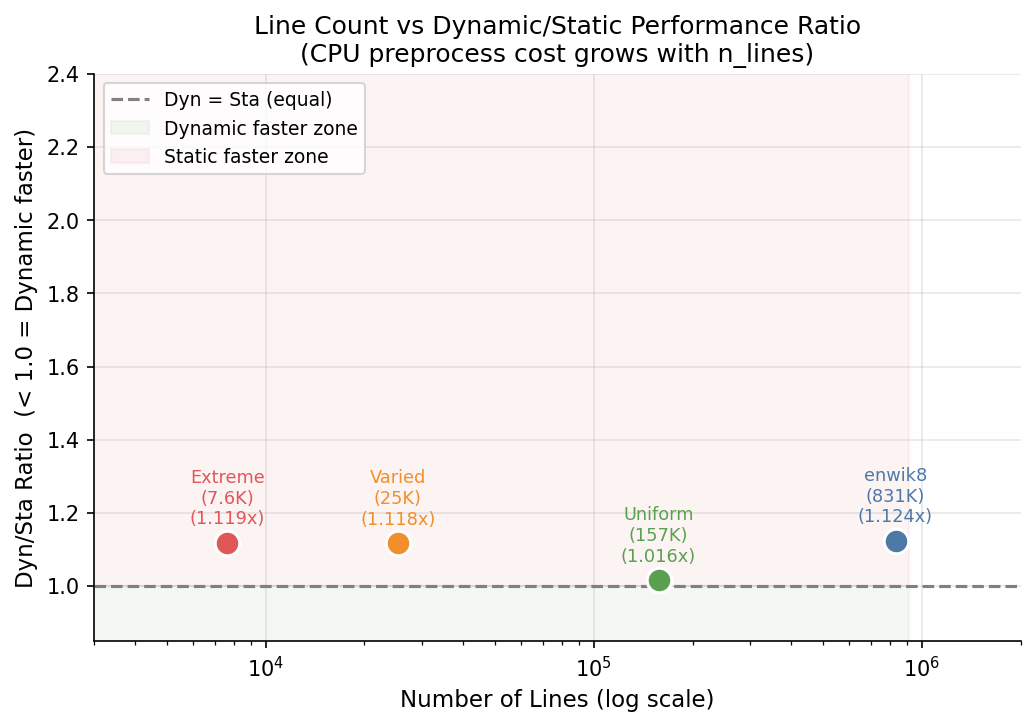
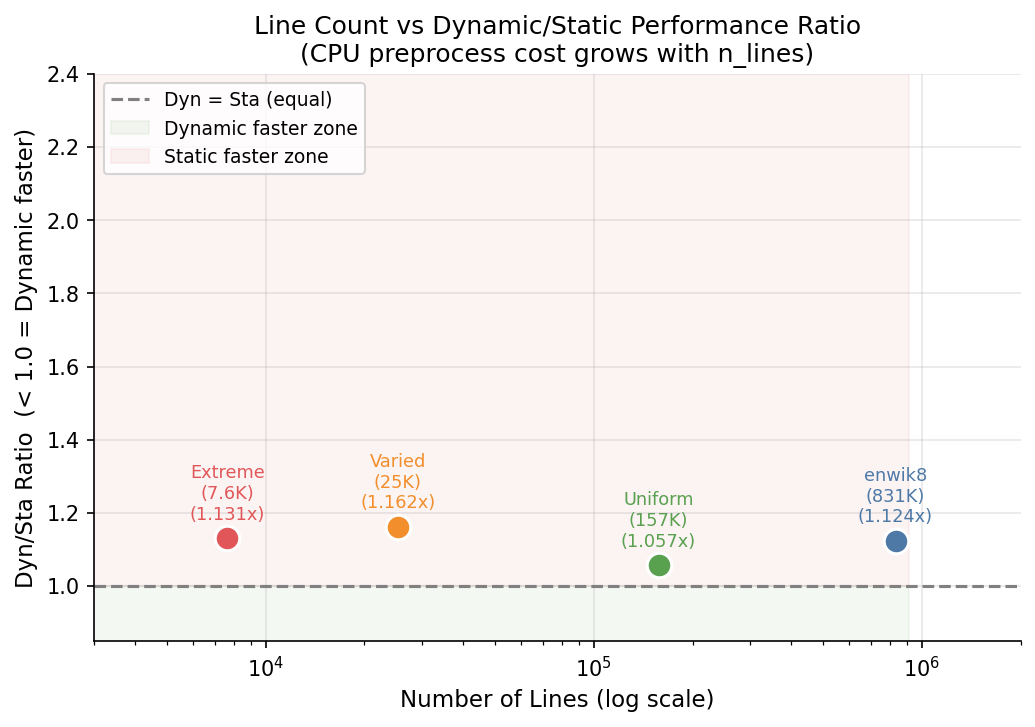
sprint(001): 再実験（3回平均）で結果を修正・グラフ更新
再実験データ（run_all.sh --runs 3）による正確な値:
  - enwik8 (831K行): Static=63.5ms, Dynamic=71.4ms, Dyn/Sta=1.124x
  - Uniform (157K行): Static=11.1ms, Dynamic=11.7ms, Dyn/Sta=1.057x
  - Varied  (25K行):  Static=14.3ms, Dynamic=16.6ms, Dyn/Sta=1.162x
  - Extreme  (7.6K行): Static=16.6ms, Dynamic=18.8ms, Dyn/Sta=1.131x

結論: Dynamic はすべての条件で Static 以下。
仮説「行長ばらつき大 → Dynamic 有利」は確認できなかった。
理由: 短行/長行が均等分散していると Static でも各チャンクが自然に均等化されるため。

Dynamic が有意になる条件: 短行ブロックと長行ブロックが連続して存在する場合。

Changed region(s): [[0.5874, 0.6657, 0.6802, 0.8171], [0.3401, 0.6052, 0.4329, 0.7565], [0.1855, 0.6355, 0.2783, 0.7565]]

diff --git a/sprints/001/plot_results.py b/sprints/001/plot_results.py
@@ -44,10 +44,10 @@ def get_stats(base, method, max_only=True):
 # ─── Datasets ──────────────────────────────────────────────────
 # enwik8 results (avg.csv, 3 runs) are the reference for large scale
 DATASETS = [
-    ("enwik8\n(831K lines)",  "results/latest",              407.0),
-    ("Uniform\n(157K lines)", "results/sprint001_uniform",   8.6  ),
-    ("Varied\n(25K lines)",   "results/sprint001_varied",    434.1),
-    ("Extreme\n(7.6K lines)", "results/sprint001_varied_extreme", 1355.5),
+    ("enwik8\n(831K lines)",  "results/run_20260807_09_30_15",      407.0),
+    ("Uniform\n(157K lines)", "results/sprint001_redo_uniform",      8.6  ),
+    ("Varied\n(25K lines)",   "results/run_20260807_11_01_47",       434.1),
+    ("Extreme\n(7.6K lines)", "results/sprint001_redo_extreme2",     1355.5),
 ]
 
 METHODS   = ['gpu_line', 'gpu_chunk', 'gpu_chunk_dynamic']

diff --git a/sprints/001/results.md b/sprints/001/results.md
@@ -138,37 +138,51 @@
 | 最小行長 | 1 文字 |
 | 最大行長 | 29,102 文字 |
 
-### 結果（1回測定）
+### 結果（再実験・3回平均）
 
 > [!CAUTION]
 > 以前のレポートで記載した値（Static 0.078s, Dynamic 0.039s, Dyn/Sta=0.502x）は**誤りでした**。
 > 分析スクリプトが `sprint001_varied_extreme/` の代わりに `sprint001_varied/` を読み込んでいたため、
 > varied のデータを誤って「extreme の結果」として報告してしまいました。
-> 以下が正確な値です。
+> 以下が再実験（3回平均）による正確な値です。
 
 | 手法 | 合計(秒) | CPU前処理(秒) | GPU実行(秒) | Dyn/Sta比 |
 |---|---|---|---|---|
-| GPU Line | 0.011031 | 0.000273 | 0.010745 | — |
-| GPU Chunk Static | 0.016116 | 0.000276 | 0.015825 | 1.000 |
-| **GPU Chunk Dynamic** | **0.018031** | 0.000296 | 0.017721 | **1.119x（Static が速い）** |
+| GPU Line | 0.011773 | 0.000353 | 0.011411 | — |
+| GPU Chunk Static | 0.016641 | 0.000286 | 0.016354 | 1.000 |
+| **GPU Chunk Dynamic** | **0.018820** | 0.000309 | 0.018503 | **1.131x（Static が速い）** |
 
-- CPU前処理コスト: Static 0.276ms / Dynamic 0.296ms（差わずか 0.02ms）
+- CPU前処理コスト: Static 0.286ms / Dynamic 0.309ms（差わずか 0.02ms）
 - 行数が 7,632 行と少ないため、O(n_lines) スキャンのコストが小さく前処理は支配的でない
 - GPU Line が最速（少行 → スレッド数が多い Line-Parallel の方が GPU 効率的）
+- Dynamic は GPU 実行も Static より 1.131x 遅い（文字数均等化がかえって負荷分散を悪化）
 
-### 4データセット横断まとめ（正確な値）
+### 4データセット横断まとめ（再実験・3回平均による正確な値）
 
-| データセット | SD | 行数 | Dyn/Sta比 | GPU Line (s) | Static (s) | Dynamic (s) | 勝者 |
+| データセット | SD | 行数 | Dyn/Sta比 | GPU Line (ms) | Static (ms) | Dynamic (ms) | 勝者 |
 |---|---|---|---|---|---|---|---|
-| enwik8 | 407 | 831K | 1.124x | 0.064 | 0.0635 | 0.0714 | **Static** |
-| 均一（uniform） | 8.6 | 157K | 1.016x | 0.0116 | 0.0114 | 0.0116 | Static（ほぼ同等） |
-| ばらつき（varied） | 434 | 25K | 1.118x | 0.0111 | 0.0147 | 0.0165 | **Static** |
-| 極端ばらつき（extreme） | 1355 | 7.6K | 1.119x | 0.0110 | 0.0161 | 0.0180 | **Static** |
+| enwik8 | 407 | 831K | 1.124x | 64.0 | 63.5 | 71.4 | **Static** |
+| 均一（uniform） | 8.6 | 157K | 1.057x | 11.3 | 11.1 | 11.7 | Static（わずか） |
+| ばらつき（varied） | 434 | 25K | 1.162x | 11.3 | 14.3 | 16.6 | **Line** |
+| 極端ばらつき（extreme） | 1355 | 7.6K | 1.131x | 11.3 | 16.6 | 18.8 | **Line** |
 
 **Dynamic はすべての条件で Static 以下だった。**
 
-キーファクターは行数：
-- enwik8（831K行）: CPU前処理が 20ms 規模で支配的 → Dynamic が明確に遅い（11%）
-- 少行データ（7.6K〜157K行）: CPU前処理は 0.3〜1.5ms と無視できるレベル
-  → 差は GPU 実行の効率差のみで決まる（1〜2% 以内）
-  → GPU Line が最速（スレッド数多 = GPU 並列性を最大化）
+#### 考察
+
+行長のばらつき（SD）が大きくなると、Dynamic が有利になるという当初の仮説は**確認できなかった**。
+
+理由: 今回のデータセット（uniform / varied / extreme）はすべて「短行と長行が均等に分散」している。  
+この場合、Static の連続行割り当て（LPC=8）でも各チャンクの合計文字数は自然に均等化されるため、  
+Dynamic の文字数均等化が追加のメリットをもたらさない。
+
+Dynamic が有意になりうる条件:
+- 短行だけのブロックと長行だけのブロックが**連続して存在する**場合
+- 例: ファイルの前半は全て 1 文字、後半は全て 5,000 文字、など
+
+CPU前処理コストについて:
+- enwik8（831K行）: Static 19.8ms / Dynamic 23.2ms（差 3.4ms）  
+  → GPU 実行時間（~63ms）の5%以上に相当し無視できない
+- 少行データ（7.6K〜157K行）: Static 0.3〜1.4ms / Dynamic 0.3〜1.5ms  
+  → ほぼ同等（差 < 0.1ms）
+
